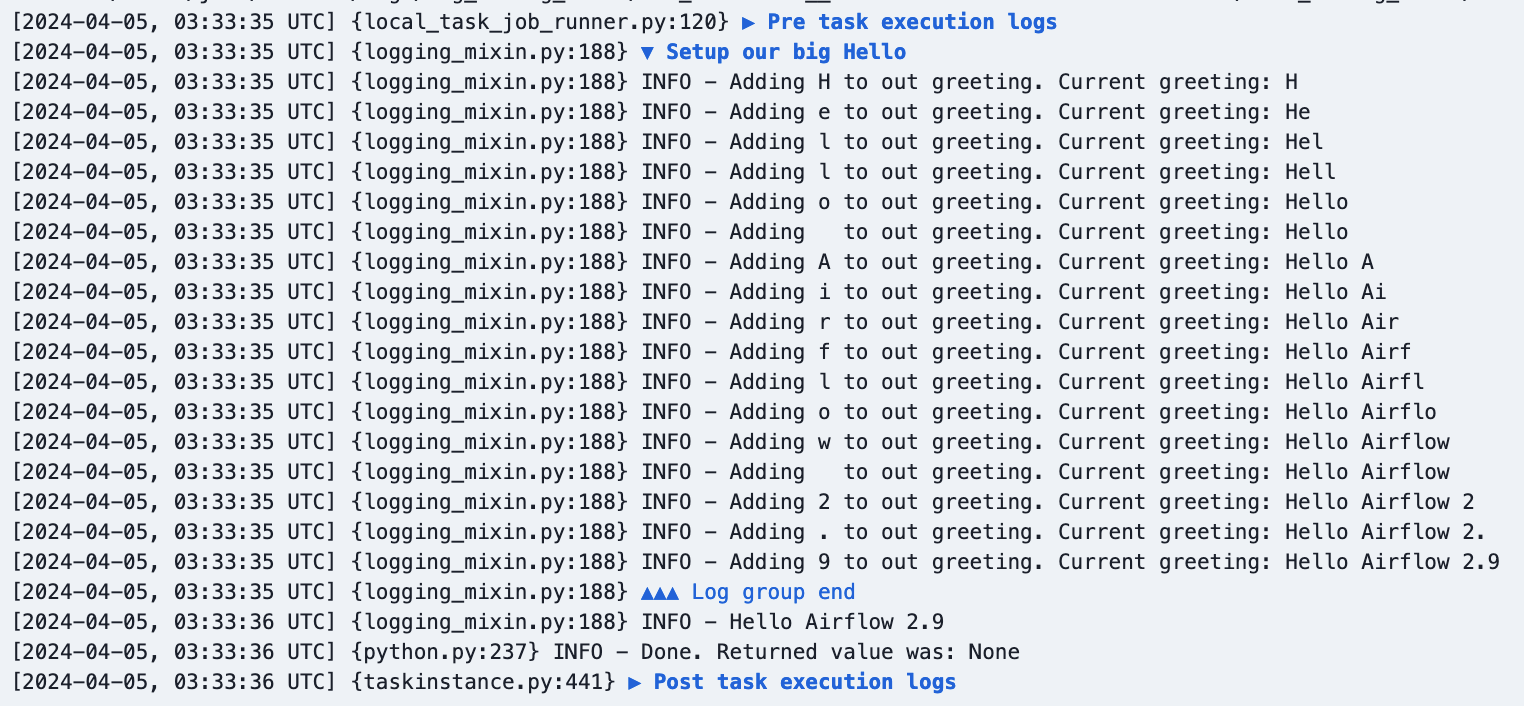
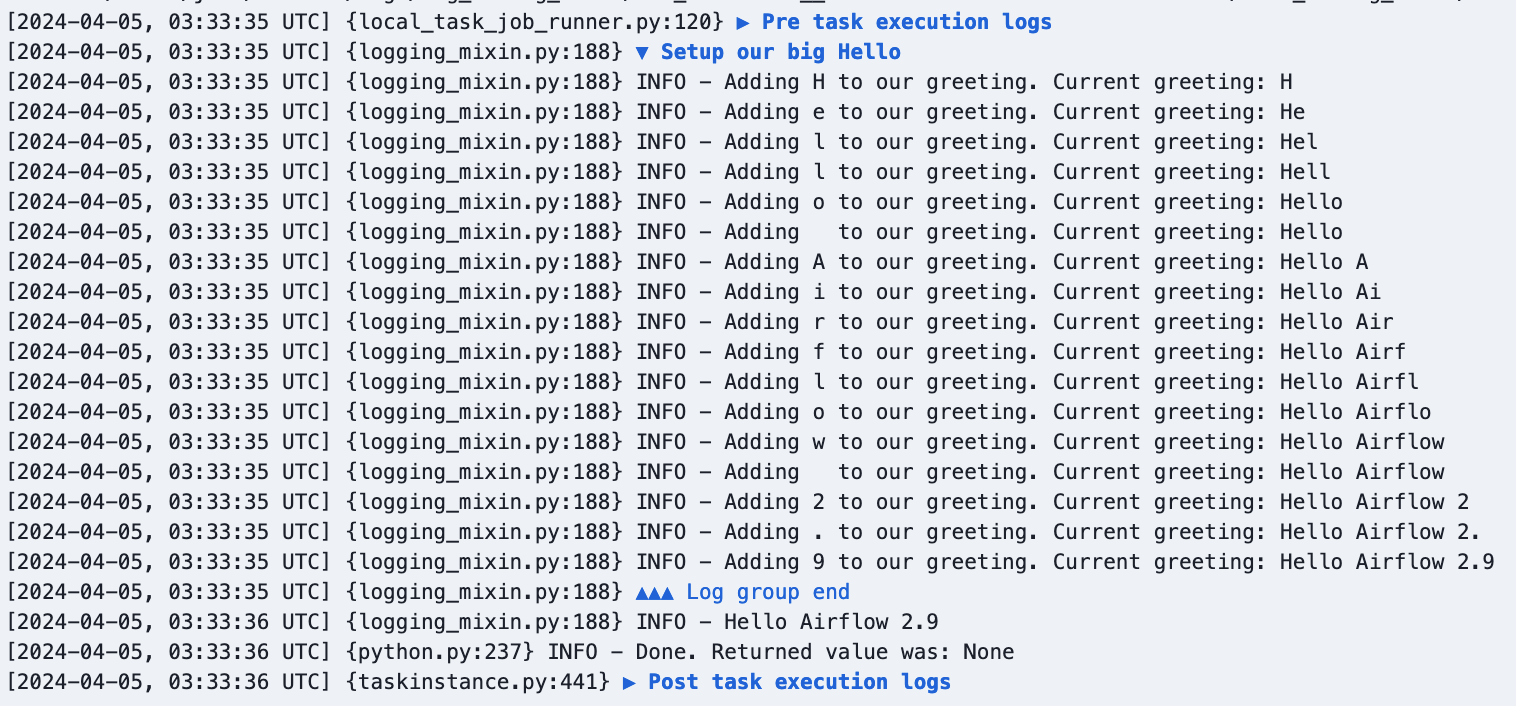
Fix typo in 2.9 blog post

Changed region(s): [[0.0, 0.0, 0.6821, 0.9972], [0.7131, 0.0935, 0.9921, 0.8102]]

diff --git a/landing-pages/site/content/en/blog/airflow-2.9.0/index.md b/landing-pages/site/content/en/blog/airflow-2.9.0/index.md
@@ -154,7 +154,7 @@ def big_hello():
     greeting = ""
     for c in "Hello Airflow 2.9":
         greeting += c
-        print(f"Adding {c} to out greeting. Current greeting: {greeting}")
+        print(f"Adding {c} to our greeting. Current greeting: {greeting}")
     print("::endgroup::")
     print(greeting)
 ```
